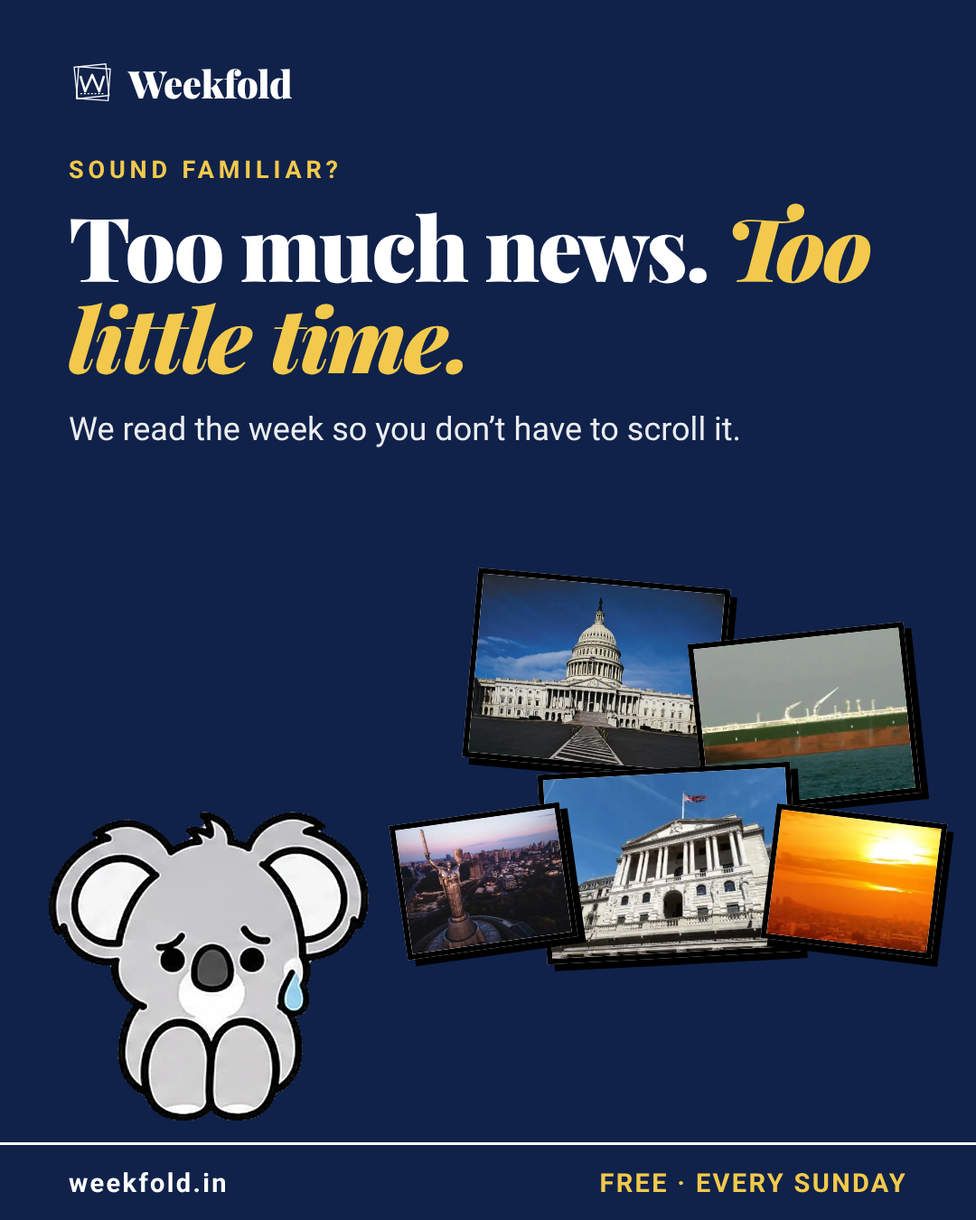
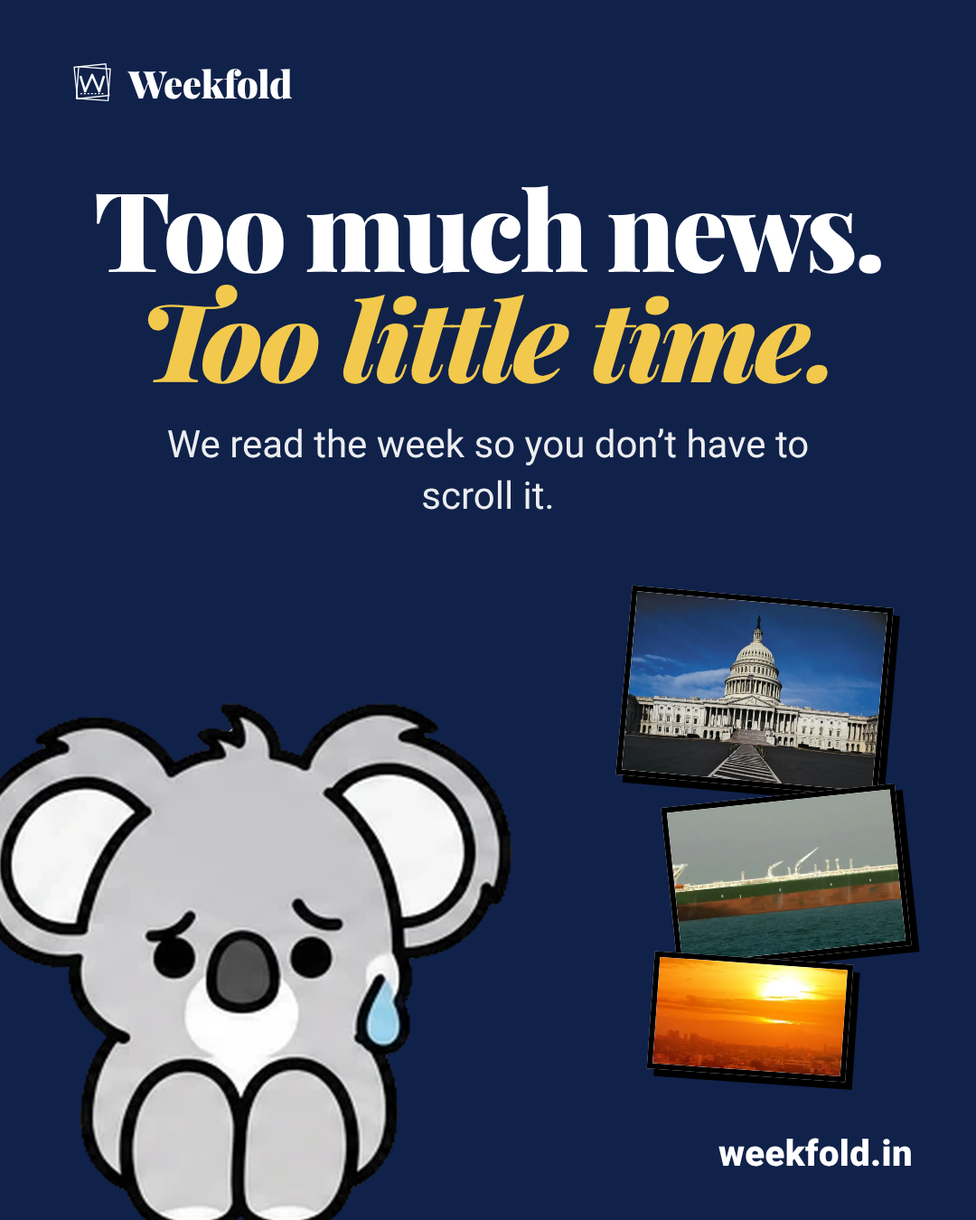
Instagram ads: big-mascot layout, halo-free hi-res koalas
Claude-Session: https://claude.ai/code/session_01ESiLAEbfA7guLETmyMs8UT

diff --git a/promo/instagram/posts.html b/promo/instagram/posts.html
@@ -1,4 +1,5 @@
-<html><head><meta charset="utf-8"><style>*{box-sizing:border-box;margin:0}body{background:#888;font-family:'Roboto',sans-serif}
+<html><head><meta charset="utf-8"><style>.big{text-align:center;margin-left:auto;margin-right:auto}h1.big{font:900 122px/1.0 'Playfair Display',serif;letter-spacing:-.03em;margin-top:70px;max-width:930px}.sub.big{font:400 42px/1.35 Roboto;margin-top:30px;max-width:800px}.url{position:absolute;z-index:6;right:70px;bottom:50px;font:900 40px Roboto;letter-spacing:.01em}.note{position:absolute;z-index:4;font:700 46px/1.05 Caveat,cursive;text-align:center}
+*{box-sizing:border-box;margin:0}body{background:#888;font-family:'Roboto',sans-serif}
 .post{width:1080px;height:1350px;position:relative;overflow:hidden;padding:64px 76px;margin-bottom:20px}
 .top{display:flex;align-items:center;gap:14px;font:900 42px 'Playfair Display',serif;letter-spacing:-.01em}.top svg{width:52px;height:52px}.top .r{margin-left:auto;font:700 24px Roboto;letter-spacing:.14em;text-transform:uppercase}
 .k{margin-top:52px;font:700 27px Roboto;letter-spacing:.18em;text-transform:uppercase}
@@ -14,26 +15,26 @@ h1{font:900 98px/1.03 'Playfair Display',serif;letter-spacing:-.025em;margin-top
 .ph1{position:absolute;left:76px;right:76px;top:300px;height:600px;border:7px solid #000;box-shadow:14px 14px 0 #000;overflow:hidden}.ph1 img{width:100%;height:100%;object-fit:cover;display:block}
 .pill{display:inline-block;font:700 26px Roboto;letter-spacing:.14em;text-transform:uppercase;padding:10px 18px;border:3px solid #000}
 .nh{position:absolute;left:76px;right:76px;top:760px}.nh h2{font:900 82px/1.04 'Playfair Display',serif;letter-spacing:-.02em;margin-top:16px}.nh p{font:400 33px/1.4 Roboto;margin-top:18px;opacity:.92}.nh small{display:block;font:500 25px Roboto;letter-spacing:.04em;margin-top:18px;opacity:.7}</style></head><body><div class="post" id="a01" style="background:#f7f2e8;color:#0a0a0a"><div class="top"><svg viewBox="0 0 80 80" fill="none" stroke="currentColor"><rect x="12" y="10" width="54" height="54" stroke-width="2" transform="rotate(-6 39 37)"/><rect x="15" y="14" width="54" height="54" stroke-width="2" transform="rotate(4 42 41)"/><path d="M20 28L28 54L40 26L52 54L60 28" stroke-width="4" stroke-linejoin="round"/><path d="M20 58h40" stroke-width="2" stroke-dasharray="3 3"/></svg><span>Weekfold</span></div>
-<div class="k" style="color:#8c1d18">Hello, world</div><h1>The world’s week, <em style="color:#8c1d18;font-style:italic">folded</em> into one free edition.</h1><div class="sub">A free news edition that lands every Sunday. One page for every day.</div><div class="ph" style="right:80px;width:400px;height:520px"><img src="file:///home/claude/weekfold/promo/instagram/shots/landing.png"></div><img class="kl" src="file:///home/claude/weekfold/promo/instagram/koala_hi/cheer.png" style="left:30px;bottom:96px;height:400px;transform:rotate(0deg)">
-<div class="foot"><span>weekfold.in</span><span style="color:#8c1d18">FREE · EVERY SUNDAY</span></div></div><div class="post" id="a02" style="background:#10224a;color:#ffffff"><div class="top"><svg viewBox="0 0 80 80" fill="none" stroke="currentColor"><rect x="12" y="10" width="54" height="54" stroke-width="2" transform="rotate(-6 39 37)"/><rect x="15" y="14" width="54" height="54" stroke-width="2" transform="rotate(4 42 41)"/><path d="M20 28L28 54L40 26L52 54L60 28" stroke-width="4" stroke-linejoin="round"/><path d="M20 58h40" stroke-width="2" stroke-dasharray="3 3"/></svg><span>Weekfold</span></div>
-<div class="k" style="color:#f2c94c">Sound familiar?</div><h1>Too much news. <em style="color:#f2c94c;font-style:italic">Too little time.</em></h1><div class="sub">We read the week so you don’t have to scroll it.</div><div class="pol" style="left:520px;top:640px;width:280px;height:210px;transform:rotate(5deg)"><img src="file:///home/claude/weekfold/docs/img/United_States_Capitol.webp"></div><div class="pol" style="left:770px;top:700px;width:240px;height:190px;transform:rotate(-6deg)"><img src="file:///home/claude/weekfold/docs/img/Oil_tanker.webp"></div><div class="pol" style="left:600px;top:850px;width:280px;height:210px;transform:rotate(-3deg)"><img src="file:///home/claude/weekfold/docs/img/Bank_of_England.webp"></div><div class="pol" style="left:850px;top:900px;width:190px;height:150px;transform:rotate(7deg)"><img src="file:///home/claude/weekfold/docs/img/Heat_wave.webp"></div><div class="pol" style="left:440px;top:900px;width:190px;height:150px;transform:rotate(-8deg)"><img src="file:///home/claude/weekfold/docs/img/Kyiv.webp"></div><img class="kl" src="file:///home/claude/weekfold/promo/instagram/koala_hi/worry.png" style="left:50px;bottom:96px;height:360px;transform:rotate(0deg)">
-<div class="foot"><span>weekfold.in</span><span style="color:#f2c94c">FREE · EVERY SUNDAY</span></div></div><div class="post" id="a03" style="background:#f7f2e8;color:#0a0a0a"><div class="top"><svg viewBox="0 0 80 80" fill="none" stroke="currentColor"><rect x="12" y="10" width="54" height="54" stroke-width="2" transform="rotate(-6 39 37)"/><rect x="15" y="14" width="54" height="54" stroke-width="2" transform="rotate(4 42 41)"/><path d="M20 28L28 54L40 26L52 54L60 28" stroke-width="4" stroke-linejoin="round"/><path d="M20 58h40" stroke-width="2" stroke-dasharray="3 3"/></svg><span>Weekfold</span></div>
-<div class="k" style="color:#8c1d18">How it works</div><h1>One page for <em style="color:#8c1d18;font-style:italic">every day</em> of the week.</h1><div class="sub">Monday to Sunday, the stories that still mattered by the end of the week.</div><div class="ph" style="right:80px;width:400px;height:520px"><img src="file:///home/claude/weekfold/promo/instagram/shots/days.png"></div><img class="kl" src="file:///home/claude/weekfold/promo/instagram/koala_hi/point.png" style="left:40px;bottom:96px;height:420px;transform:rotate(0deg)">
-<div class="foot"><span>weekfold.in</span><span style="color:#8c1d18">FREE · EVERY SUNDAY</span></div></div><div class="post" id="a04" style="background:#e9d98a;color:#0a0a0a"><div class="top"><svg viewBox="0 0 80 80" fill="none" stroke="currentColor"><rect x="12" y="10" width="54" height="54" stroke-width="2" transform="rotate(-6 39 37)"/><rect x="15" y="14" width="54" height="54" stroke-width="2" transform="rotate(4 42 41)"/><path d="M20 28L28 54L40 26L52 54L60 28" stroke-width="4" stroke-linejoin="round"/><path d="M20 58h40" stroke-width="2" stroke-dasharray="3 3"/></svg><span>Weekfold</span></div>
-<div class="k" style="color:#8c1d18">Our rule</div><h1>Every story <em style="color:#8c1d18;font-style:italic">names its sources.</em></h1><div class="sub">At least two independent outlets behind every story. Always linked.</div><div class="ph" style="right:80px;width:400px;height:520px"><img src="file:///home/claude/weekfold/promo/instagram/shots/story_src.png"></div><img class="kl" src="file:///home/claude/weekfold/promo/instagram/koala_hi/magnify.png" style="left:40px;bottom:96px;height:410px;transform:rotate(0deg)">
-<div class="foot"><span>weekfold.in</span><span style="color:#8c1d18">FREE · EVERY SUNDAY</span></div></div><div class="post" id="a05" style="background:#10224a;color:#ffffff"><div class="top"><svg viewBox="0 0 80 80" fill="none" stroke="currentColor"><rect x="12" y="10" width="54" height="54" stroke-width="2" transform="rotate(-6 39 37)"/><rect x="15" y="14" width="54" height="54" stroke-width="2" transform="rotate(4 42 41)"/><path d="M20 28L28 54L40 26L52 54L60 28" stroke-width="4" stroke-linejoin="round"/><path d="M20 58h40" stroke-width="2" stroke-dasharray="3 3"/></svg><span>Weekfold</span></div>
-<div class="k" style="color:#f2c94c">The best part</div><h1>Free. No ads. <em style="color:#f2c94c;font-style:italic">No paywall.</em></h1><div class="sub">Just the week’s news, written in plain English.</div><div class="ph" style="right:80px;width:400px;height:520px"><img src="file:///home/claude/weekfold/promo/instagram/shots/home.png"></div><img class="kl" src="file:///home/claude/weekfold/promo/instagram/koala_hi/thumb.png" style="left:40px;bottom:96px;height:420px;transform:rotate(0deg)">
-<div class="foot"><span>weekfold.in</span><span style="color:#f2c94c">FREE · EVERY SUNDAY</span></div></div><div class="post" id="a06" style="background:#f7f2e8;color:#0a0a0a"><div class="top"><svg viewBox="0 0 80 80" fill="none" stroke="currentColor"><rect x="12" y="10" width="54" height="54" stroke-width="2" transform="rotate(-6 39 37)"/><rect x="15" y="14" width="54" height="54" stroke-width="2" transform="rotate(4 42 41)"/><path d="M20 28L28 54L40 26L52 54L60 28" stroke-width="4" stroke-linejoin="round"/><path d="M20 58h40" stroke-width="2" stroke-dasharray="3 3"/></svg><span>Weekfold</span></div>
-<div class="k" style="color:#8c1d18">Mark your calendar</div><h1>A new edition <em style="color:#8c1d18;font-style:italic">every Sunday.</em></h1><div class="sub">Seven days, seven leads, one read. Straight to your inbox.</div><div class="week"><div class="wd"><b>02 Nov</b><div style="background-image:url(file:///home/claude/weekfold/docs/img/Kyiv.webp)"></div><i>Ukraine and Russia emergency alert apps hacked as local tr</i></div><div class="wd"><b>03 Nov</b><div style="background-image:url(file:///home/claude/weekfold/docs/img/United_States_Capitol.webp)"></div><i>Democrats seize House and Senate in midterm rebuke of Trum</i></div><div class="wd"><b>04 Nov</b><div style="background-image:url(file:///home/claude/weekfold/docs/img/Zaporizhzhia.webp)"></div><i>Dozens dead as Russian bombs hit Zaporizhzhia aid point</i></div><div class="wd"><b>05 Nov</b><div style="background-image:url(file:///home/claude/weekfold/docs/img/Oil_tanker.webp)"></div><i>Tankers burn in Hormuz as Iran presses on after US midterm</i></div><div class="wd"><b>06 Nov</b><div style="background-image:url(file:///home/claude/weekfold/docs/img/Pedro_Alliana.webp)"></div><i>Paraguay&#x27;s Senate removes president over bank collapse; Al</i></div><div class="wd"><b>07 Nov</b><div style="background-image:url(file:///home/claude/weekfold/docs/img/Main_Square_Krakow.webp)"></div><i>Gunman kills six in Kraków&#x27;s Main Square; Poland calls it </i></div><div class="wd"><b>08 Nov</b><div style="background-image:url(file:///home/claude/weekfold/docs/img/United_States_Central_Command.webp)"></div><i>US opens land and Caspian front against Iran with Task For</i></div></div><img class="kl" src="file:///home/claude/weekfold/promo/instagram/koala_hi/sun.png" style="right:60px;bottom:420px;height:360px;transform:rotate(0deg)">
-<div class="foot"><span>weekfold.in</span><span style="color:#8c1d18">FREE · EVERY SUNDAY</span></div></div><div class="post" id="a07" style="background:#e9d98a;color:#0a0a0a"><div class="top"><svg viewBox="0 0 80 80" fill="none" stroke="currentColor"><rect x="12" y="10" width="54" height="54" stroke-width="2" transform="rotate(-6 39 37)"/><rect x="15" y="14" width="54" height="54" stroke-width="2" transform="rotate(4 42 41)"/><path d="M20 28L28 54L40 26L52 54L60 28" stroke-width="4" stroke-linejoin="round"/><path d="M20 58h40" stroke-width="2" stroke-dasharray="3 3"/></svg><span>Weekfold</span></div>
-<div class="k" style="color:#8c1d18">Games</div><h1>Two games. <em style="color:#8c1d18;font-style:italic">Every day.</em></h1><div class="sub">A fresh mini crossword and Weekfold Word, right inside the site.</div><div class="ph" style="right:50px;width:340px;height:480px"><img src="file:///home/claude/weekfold/promo/instagram/shots/crossword.png"></div><div class="ph" style="right:420px;width:340px;height:480px"><img src="file:///home/claude/weekfold/promo/instagram/shots/word.png"></div><img class="kl" src="file:///home/claude/weekfold/promo/instagram/koala_hi/mug.png" style="left:30px;bottom:96px;height:300px;transform:rotate(0deg)">
-<div class="foot"><span>weekfold.in</span><span style="color:#8c1d18">FREE · EVERY SUNDAY</span></div></div><div class="post" id="a08" style="background:#10224a;color:#ffffff"><div class="top"><svg viewBox="0 0 80 80" fill="none" stroke="currentColor"><rect x="12" y="10" width="54" height="54" stroke-width="2" transform="rotate(-6 39 37)"/><rect x="15" y="14" width="54" height="54" stroke-width="2" transform="rotate(4 42 41)"/><path d="M20 28L28 54L40 26L52 54L60 28" stroke-width="4" stroke-linejoin="round"/><path d="M20 58h40" stroke-width="2" stroke-dasharray="3 3"/></svg><span>Weekfold</span></div>
-<div class="k" style="color:#f2c94c">World news</div><h1>Five minutes to <em style="color:#f2c94c;font-style:italic">catch up</em> on the planet.</h1><div class="sub">Politics, science, climate, sport, culture and more, all in one place.</div><div class="pol" style="left:430px;top:700px;width:280px;height:210px;transform:rotate(-5deg)"><img src="file:///home/claude/weekfold/docs/img/Greenland_ice_sheet.webp"></div><div class="pol" style="left:700px;top:730px;width:300px;height:220px;transform:rotate(5deg)"><img src="file:///home/claude/weekfold/docs/img/Pedro_Alliana.webp"></div><div class="pol" style="left:560px;top:890px;width:270px;height:200px;transform:rotate(-3deg)"><img src="file:///home/claude/weekfold/docs/img/Beauden_Barrett.webp"></div><div class="pol" style="left:840px;top:930px;width:190px;height:160px;transform:rotate(8deg)"><img src="file:///home/claude/weekfold/docs/img/Joshua_Kutryk.webp"></div><img class="kl" src="file:///home/claude/weekfold/promo/instagram/koala_hi/globe.png" style="left:40px;bottom:96px;height:420px;transform:rotate(0deg)">
-<div class="foot"><span>weekfold.in</span><span style="color:#f2c94c">FREE · EVERY SUNDAY</span></div></div><div class="post" id="a09" style="background:#f7f2e8;color:#0a0a0a"><div class="top"><svg viewBox="0 0 80 80" fill="none" stroke="currentColor"><rect x="12" y="10" width="54" height="54" stroke-width="2" transform="rotate(-6 39 37)"/><rect x="15" y="14" width="54" height="54" stroke-width="2" transform="rotate(4 42 41)"/><path d="M20 28L28 54L40 26L52 54L60 28" stroke-width="4" stroke-linejoin="round"/><path d="M20 58h40" stroke-width="2" stroke-dasharray="3 3"/></svg><span>Weekfold</span></div>
-<div class="k" style="color:#8c1d18">Our promise</div><h1>No spin. <em style="color:#8c1d18;font-style:italic">Just the facts.</em></h1><div class="sub">Plain-English summaries of what actually happened, with the sources one tap away.</div><div class="ph" style="right:80px;width:400px;height:520px"><img src="file:///home/claude/weekfold/promo/instagram/shots/story.png"></div><img class="kl" src="file:///home/claude/weekfold/promo/instagram/koala_hi/shock.png" style="left:50px;bottom:96px;height:400px;transform:rotate(0deg)">
-<div class="foot"><span>weekfold.in</span><span style="color:#8c1d18">FREE · EVERY SUNDAY</span></div></div><div class="post" id="a10" style="background:#10224a;color:#ffffff"><div class="top"><svg viewBox="0 0 80 80" fill="none" stroke="currentColor"><rect x="12" y="10" width="54" height="54" stroke-width="2" transform="rotate(-6 39 37)"/><rect x="15" y="14" width="54" height="54" stroke-width="2" transform="rotate(4 42 41)"/><path d="M20 28L28 54L40 26L52 54L60 28" stroke-width="4" stroke-linejoin="round"/><path d="M20 58h40" stroke-width="2" stroke-dasharray="3 3"/></svg><span>Weekfold</span></div>
-<div class="k" style="color:#f2c94c">Ready?</div><h1>Get Weekfold <em style="color:#f2c94c;font-style:italic">every Sunday.</em></h1><div class="sub">Free forever. Join at weekfold.in (link in bio).</div><div class="ph" style="right:80px;width:400px;height:520px"><img src="file:///home/claude/weekfold/promo/instagram/shots/landing.png"></div><img class="kl" src="file:///home/claude/weekfold/promo/instagram/koala_hi/mega.png" style="left:40px;bottom:96px;height:420px;transform:rotate(0deg)">
-<div class="foot"><span>weekfold.in</span><span style="color:#f2c94c">FREE · EVERY SUNDAY</span></div></div><div class="post" id="n01" style="background:#f7f2e8;color:#0a0a0a"><div class="top"><svg viewBox="0 0 80 80" fill="none" stroke="currentColor"><rect x="12" y="10" width="54" height="54" stroke-width="2" transform="rotate(-6 39 37)"/><rect x="15" y="14" width="54" height="54" stroke-width="2" transform="rotate(4 42 41)"/><path d="M20 28L28 54L40 26L52 54L60 28" stroke-width="4" stroke-linejoin="round"/><path d="M20 58h40" stroke-width="2" stroke-dasharray="3 3"/></svg><span>Weekfold</span><span class="r" style="color:#8c1d18">The week · 1/5</span></div>
+<h1 class="big">The world’s week, <em style="color:#8c1d18;font-style:italic">folded</em>.</h1><div class="sub big">One free news edition, every Sunday.</div><div class="ph" style="right:70px;width:300px;height:420px;bottom:170px"><img src="file:///home/claude/weekfold/promo/instagram/shots/landing.png"></div><div class="note" style="right:70px;bottom:620px;width:300px">your Sunday read</div><img class="kl" src="file:///home/claude/weekfold/promo/instagram/koala_hi/cheer.png" style="left:-60px;bottom:-40px;height:620px;transform:rotate(0deg)">
+<div class="url" style="color:#0a0a0a">weekfold.in</div></div><div class="post" id="a02" style="background:#10224a;color:#ffffff"><div class="top"><svg viewBox="0 0 80 80" fill="none" stroke="currentColor"><rect x="12" y="10" width="54" height="54" stroke-width="2" transform="rotate(-6 39 37)"/><rect x="15" y="14" width="54" height="54" stroke-width="2" transform="rotate(4 42 41)"/><path d="M20 28L28 54L40 26L52 54L60 28" stroke-width="4" stroke-linejoin="round"/><path d="M20 58h40" stroke-width="2" stroke-dasharray="3 3"/></svg><span>Weekfold</span></div>
+<h1 class="big">Too much news. <em style="color:#f2c94c;font-style:italic">Too little time.</em></h1><div class="sub big">We read the week so you don’t have to scroll it.</div><div class="pol" style="left:690px;top:660px;width:290px;height:210px;transform:rotate(5deg)"><img src="file:///home/claude/weekfold/docs/img/United_States_Capitol.webp"></div><div class="pol" style="left:740px;top:880px;width:260px;height:180px;transform:rotate(-6deg)"><img src="file:///home/claude/weekfold/docs/img/Oil_tanker.webp"></div><div class="pol" style="left:720px;top:1060px;width:220px;height:130px;transform:rotate(4deg)"><img src="file:///home/claude/weekfold/docs/img/Heat_wave.webp"></div><img class="kl" src="file:///home/claude/weekfold/promo/instagram/koala_hi/worry.png" style="left:-50px;bottom:-40px;height:620px;transform:rotate(0deg)">
+<div class="url" style="color:#ffffff">weekfold.in</div></div><div class="post" id="a03" style="background:#f7f2e8;color:#0a0a0a"><div class="top"><svg viewBox="0 0 80 80" fill="none" stroke="currentColor"><rect x="12" y="10" width="54" height="54" stroke-width="2" transform="rotate(-6 39 37)"/><rect x="15" y="14" width="54" height="54" stroke-width="2" transform="rotate(4 42 41)"/><path d="M20 28L28 54L40 26L52 54L60 28" stroke-width="4" stroke-linejoin="round"/><path d="M20 58h40" stroke-width="2" stroke-dasharray="3 3"/></svg><span>Weekfold</span></div>
+<h1 class="big">One page for <em style="color:#8c1d18;font-style:italic">every day.</em></h1><div class="sub big">Monday to Sunday, the stories that still mattered.</div><div class="ph" style="right:70px;width:300px;height:420px;bottom:170px"><img src="file:///home/claude/weekfold/promo/instagram/shots/days.png"></div><div class="note" style="right:110px;bottom:600px;width:300px">tap a day</div><img class="kl" src="file:///home/claude/weekfold/promo/instagram/koala_hi/point.png" style="left:-40px;bottom:-40px;height:700px;transform:rotate(0deg)">
+<div class="url" style="color:#0a0a0a">weekfold.in</div></div><div class="post" id="a04" style="background:#e9d98a;color:#0a0a0a"><div class="top"><svg viewBox="0 0 80 80" fill="none" stroke="currentColor"><rect x="12" y="10" width="54" height="54" stroke-width="2" transform="rotate(-6 39 37)"/><rect x="15" y="14" width="54" height="54" stroke-width="2" transform="rotate(4 42 41)"/><path d="M20 28L28 54L40 26L52 54L60 28" stroke-width="4" stroke-linejoin="round"/><path d="M20 58h40" stroke-width="2" stroke-dasharray="3 3"/></svg><span>Weekfold</span></div>
+<h1 class="big">Sources on <em style="color:#8c1d18;font-style:italic">every story.</em></h1><div class="sub big">Two outlets minimum. Always linked.</div><div class="ph" style="right:70px;width:300px;height:420px;bottom:170px"><img src="file:///home/claude/weekfold/promo/instagram/shots/story_src.png"></div><div class="note" style="right:70px;bottom:600px;width:300px">check it yourself</div><img class="kl" src="file:///home/claude/weekfold/promo/instagram/koala_hi/magnify.png" style="left:-40px;bottom:-40px;height:680px;transform:rotate(0deg)">
+<div class="url" style="color:#0a0a0a">weekfold.in</div></div><div class="post" id="a05" style="background:#10224a;color:#ffffff"><div class="top"><svg viewBox="0 0 80 80" fill="none" stroke="currentColor"><rect x="12" y="10" width="54" height="54" stroke-width="2" transform="rotate(-6 39 37)"/><rect x="15" y="14" width="54" height="54" stroke-width="2" transform="rotate(4 42 41)"/><path d="M20 28L28 54L40 26L52 54L60 28" stroke-width="4" stroke-linejoin="round"/><path d="M20 58h40" stroke-width="2" stroke-dasharray="3 3"/></svg><span>Weekfold</span></div>
+<h1 class="big">Free. No ads. <em style="color:#f2c94c;font-style:italic">No paywall.</em></h1><div class="sub big">Just the week’s news, in plain English.</div><div class="ph" style="right:70px;width:300px;height:420px;bottom:170px"><img src="file:///home/claude/weekfold/promo/instagram/shots/home.png"></div><div class="note" style="right:70px;bottom:600px;width:300px">no catch, really</div><img class="kl" src="file:///home/claude/weekfold/promo/instagram/koala_hi/thumb.png" style="left:-40px;bottom:-40px;height:700px;transform:rotate(0deg)">
+<div class="url" style="color:#ffffff">weekfold.in</div></div><div class="post" id="a06" style="background:#f7f2e8;color:#0a0a0a"><div class="top"><svg viewBox="0 0 80 80" fill="none" stroke="currentColor"><rect x="12" y="10" width="54" height="54" stroke-width="2" transform="rotate(-6 39 37)"/><rect x="15" y="14" width="54" height="54" stroke-width="2" transform="rotate(4 42 41)"/><path d="M20 28L28 54L40 26L52 54L60 28" stroke-width="4" stroke-linejoin="round"/><path d="M20 58h40" stroke-width="2" stroke-dasharray="3 3"/></svg><span>Weekfold</span></div>
+<h1 class="big">A new edition <em style="color:#8c1d18;font-style:italic">every Sunday.</em></h1><div class="sub big">Seven days. One read.</div><div class="week" style="bottom:170px"><div class="wd"><b>02 Nov</b><div style="background-image:url(file:///home/claude/weekfold/docs/img/Kyiv.webp)"></div></div><div class="wd"><b>03 Nov</b><div style="background-image:url(file:///home/claude/weekfold/docs/img/United_States_Capitol.webp)"></div></div><div class="wd"><b>04 Nov</b><div style="background-image:url(file:///home/claude/weekfold/docs/img/Zaporizhzhia.webp)"></div></div><div class="wd"><b>05 Nov</b><div style="background-image:url(file:///home/claude/weekfold/docs/img/Oil_tanker.webp)"></div></div><div class="wd"><b>06 Nov</b><div style="background-image:url(file:///home/claude/weekfold/docs/img/Pedro_Alliana.webp)"></div></div><div class="wd"><b>07 Nov</b><div style="background-image:url(file:///home/claude/weekfold/docs/img/Main_Square_Krakow.webp)"></div></div><div class="wd"><b>08 Nov</b><div style="background-image:url(file:///home/claude/weekfold/docs/img/United_States_Central_Command.webp)"></div></div></div><img class="kl" src="file:///home/claude/weekfold/promo/instagram/koala_hi/sun.png" style="right:50px;bottom:420px;height:260px;transform:rotate(0deg)"><div class="note" style="right:330px;bottom:470px;width:320px">see you Sunday!</div>
+<div class="url" style="color:#0a0a0a">weekfold.in</div></div><div class="post" id="a07" style="background:#e9d98a;color:#0a0a0a"><div class="top"><svg viewBox="0 0 80 80" fill="none" stroke="currentColor"><rect x="12" y="10" width="54" height="54" stroke-width="2" transform="rotate(-6 39 37)"/><rect x="15" y="14" width="54" height="54" stroke-width="2" transform="rotate(4 42 41)"/><path d="M20 28L28 54L40 26L52 54L60 28" stroke-width="4" stroke-linejoin="round"/><path d="M20 58h40" stroke-width="2" stroke-dasharray="3 3"/></svg><span>Weekfold</span></div>
+<h1 class="big">Two games. <em style="color:#8c1d18;font-style:italic">Every day.</em></h1><div class="sub big">A mini crossword and Weekfold Word.</div><div class="ph" style="right:60px;width:270px;height:420px;bottom:170px"><img src="file:///home/claude/weekfold/promo/instagram/shots/word.png"></div><div class="ph" style="right:370px;width:270px;height:420px;bottom:170px"><img src="file:///home/claude/weekfold/promo/instagram/shots/crossword.png"></div><div class="note" style="right:300px;bottom:600px;width:360px">play both, free</div><img class="kl" src="file:///home/claude/weekfold/promo/instagram/koala_hi/mug.png" style="left:-50px;bottom:-40px;height:480px;transform:rotate(0deg)">
+<div class="url" style="color:#0a0a0a">weekfold.in</div></div><div class="post" id="a08" style="background:#10224a;color:#ffffff"><div class="top"><svg viewBox="0 0 80 80" fill="none" stroke="currentColor"><rect x="12" y="10" width="54" height="54" stroke-width="2" transform="rotate(-6 39 37)"/><rect x="15" y="14" width="54" height="54" stroke-width="2" transform="rotate(4 42 41)"/><path d="M20 28L28 54L40 26L52 54L60 28" stroke-width="4" stroke-linejoin="round"/><path d="M20 58h40" stroke-width="2" stroke-dasharray="3 3"/></svg><span>Weekfold</span></div>
+<h1 class="big">Five minutes on <em style="color:#f2c94c;font-style:italic">the planet.</em></h1><div class="sub big">Politics, science, climate, sport and culture.</div><div class="pol" style="left:700px;top:660px;width:290px;height:210px;transform:rotate(-5deg)"><img src="file:///home/claude/weekfold/docs/img/Greenland_ice_sheet.webp"></div><div class="pol" style="left:750px;top:880px;width:250px;height:190px;transform:rotate(5deg)"><img src="file:///home/claude/weekfold/docs/img/Pedro_Alliana.webp"></div><div class="pol" style="left:760px;top:1080px;width:170px;height:120px;transform:rotate(-4deg)"><img src="file:///home/claude/weekfold/docs/img/Joshua_Kutryk.webp"></div><img class="kl" src="file:///home/claude/weekfold/promo/instagram/koala_hi/globe.png" style="left:-50px;bottom:-40px;height:620px;transform:rotate(0deg)">
+<div class="url" style="color:#ffffff">weekfold.in</div></div><div class="post" id="a09" style="background:#f7f2e8;color:#0a0a0a"><div class="top"><svg viewBox="0 0 80 80" fill="none" stroke="currentColor"><rect x="12" y="10" width="54" height="54" stroke-width="2" transform="rotate(-6 39 37)"/><rect x="15" y="14" width="54" height="54" stroke-width="2" transform="rotate(4 42 41)"/><path d="M20 28L28 54L40 26L52 54L60 28" stroke-width="4" stroke-linejoin="round"/><path d="M20 58h40" stroke-width="2" stroke-dasharray="3 3"/></svg><span>Weekfold</span></div>
+<h1 class="big">No spin. <em style="color:#8c1d18;font-style:italic">Just the facts.</em></h1><div class="sub big">Plain-English summaries, sources one tap away.</div><div class="ph" style="right:70px;width:300px;height:420px;bottom:170px"><img src="file:///home/claude/weekfold/promo/instagram/shots/story.png"></div><div class="note" style="right:70px;bottom:600px;width:300px">tap for sources</div><img class="kl" src="file:///home/claude/weekfold/promo/instagram/koala_hi/shock.png" style="left:-40px;bottom:-40px;height:700px;transform:rotate(0deg)">
+<div class="url" style="color:#0a0a0a">weekfold.in</div></div><div class="post" id="a10" style="background:#10224a;color:#ffffff"><div class="top"><svg viewBox="0 0 80 80" fill="none" stroke="currentColor"><rect x="12" y="10" width="54" height="54" stroke-width="2" transform="rotate(-6 39 37)"/><rect x="15" y="14" width="54" height="54" stroke-width="2" transform="rotate(4 42 41)"/><path d="M20 28L28 54L40 26L52 54L60 28" stroke-width="4" stroke-linejoin="round"/><path d="M20 58h40" stroke-width="2" stroke-dasharray="3 3"/></svg><span>Weekfold</span></div>
+<h1 class="big">Get Weekfold <em style="color:#f2c94c;font-style:italic">every Sunday.</em></h1><div class="sub big">Free forever. Link in bio.</div><div class="ph" style="right:70px;width:300px;height:420px;bottom:170px"><img src="file:///home/claude/weekfold/promo/instagram/shots/landing.png"></div><div class="note" style="right:130px;bottom:600px;width:300px">join free</div><img class="kl" src="file:///home/claude/weekfold/promo/instagram/koala_hi/mega.png" style="left:-40px;bottom:-40px;height:700px;transform:rotate(0deg)">
+<div class="url" style="color:#ffffff">weekfold.in</div></div><div class="post" id="n01" style="background:#f7f2e8;color:#0a0a0a"><div class="top"><svg viewBox="0 0 80 80" fill="none" stroke="currentColor"><rect x="12" y="10" width="54" height="54" stroke-width="2" transform="rotate(-6 39 37)"/><rect x="15" y="14" width="54" height="54" stroke-width="2" transform="rotate(4 42 41)"/><path d="M20 28L28 54L40 26L52 54L60 28" stroke-width="4" stroke-linejoin="round"/><path d="M20 58h40" stroke-width="2" stroke-dasharray="3 3"/></svg><span>Weekfold</span><span class="r" style="color:#8c1d18">The week · 1/5</span></div>
 <div class="ph1" style="top:160px;height:500px"><img src="file:///home/claude/weekfold/docs/img/United_States_Capitol.webp"></div>
 <div class="nh" style="top:700px"><span class="pill" style="background:#8c1d18;color:#fff;border-color:#000">Politics</span><span style="font:500 25px Roboto;margin-left:16px;opacity:.75">Tuesday 3 November</span>
 <h2 style="font-size:80px">Democrats seize House and Senate in midterm rebuke of Trump</h2>

diff --git a/promo/instagram/gen.py b/promo/instagram/gen.py
@@ -5,8 +5,26 @@ from playwright.sync_api import sync_playwright
 HERE = pathlib.Path(__file__).resolve().parent; ROOT = HERE.parent.parent
 from PIL import Image, ImageFilter
 _hi = HERE / 'koala_hi'; _hi.mkdir(exist_ok=True)
-for _p in (ROOT / 'src' / 'koala').glob('*.webp'):   # 2x Lanczos + light sharpen so posts look crisp
-    _im = Image.open(_p).convert('RGBA'); _im = _im.resize((_im.width * 2, _im.height * 2), Image.LANCZOS).filter(ImageFilter.UnsharpMask(2, 90, 2)); _im.save(_hi / (_p.stem + '.png'))
+import numpy as np
+from scipy import ndimage as ndi
+def _hires(p):
+    im = Image.open(p).convert('RGBA'); a = np.array(im).astype(float)
+    a[..., :3] *= a[..., 3:4] / 255                          # premultiply so transparent white doesn't bleed
+    im = Image.fromarray(a.astype('uint8'), 'RGBA').resize((im.width * 3, im.height * 3), Image.LANCZOS)
+    a = np.array(im).astype(float); al = a[..., 3:4].clip(1, 255); a[..., :3] = (a[..., :3] * 255 / al).clip(0, 255)
+    a = a.astype('uint8'); lum = a[..., :3].mean(2); opaque = a[..., 3] > 30
+    dark = opaque & (lum < 80)
+    # peel any light pixels outside the black outline (flood in from transparency through non-dark pixels, up to 10px)
+    reach = ~opaque
+    for _ in range(10): reach = ndi.binary_dilation(reach) & ~dark | reach
+    a[reach & ~dark, 3] = 0
+    for _ in range(2):                                         # remove remaining light edge pixels
+        t = a[..., 3] < 30; e = ndi.binary_dilation(t) & ~t & (a[..., :3].mean(2) > 60); a[e, 3] = 0
+    edge = (a[..., 3] > 0) & (a[..., 3] < 255); a[edge, :3] = np.minimum(a[edge, :3], 40)   # dark fringe, never white
+    a[..., 3] = np.where(a[..., 3] < 30, 0, a[..., 3])
+    return Image.fromarray(a, 'RGBA')
+for _p in (ROOT / 'src' / 'koala').glob('*.webp'):
+    _hires(_p).save(_hi / (_p.stem + '.png'))
 K = _hi.as_uri(); SH = (HERE / 'shots').as_uri()
 IMG = (ROOT / 'docs' / 'img').as_uri()
 man = json.loads((ROOT / 'data' / 'photos' / 'manifest.json').read_text())
@@ -17,7 +35,8 @@ def photo(t):
 def story(di, k): d = ed['days'][di]; return ([d['lead']] + d['more'])[k]
 LOGO = '<svg viewBox="0 0 80 80" fill="none" stroke="currentColor"><rect x="12" y="10" width="54" height="54" stroke-width="2" transform="rotate(-6 39 37)"/><rect x="15" y="14" width="54" height="54" stroke-width="2" transform="rotate(4 42 41)"/><path d="M20 28L28 54L40 26L52 54L60 28" stroke-width="4" stroke-linejoin="round"/><path d="M20 58h40" stroke-width="2" stroke-dasharray="3 3"/></svg>'
 TH = {'cream': ('#f7f2e8', '#0a0a0a', '#8c1d18'), 'navy': ('#10224a', '#ffffff', '#f2c94c'), 'gold': ('#e9d98a', '#0a0a0a', '#8c1d18')}
-CSS = '''*{box-sizing:border-box;margin:0}body{background:#888;font-family:'Roboto',sans-serif}
+CSS = '''.big{text-align:center;margin-left:auto;margin-right:auto}h1.big{font:900 122px/1.0 'Playfair Display',serif;letter-spacing:-.03em;margin-top:70px;max-width:930px}.sub.big{font:400 42px/1.35 Roboto;margin-top:30px;max-width:800px}.url{position:absolute;z-index:6;right:70px;bottom:50px;font:900 40px Roboto;letter-spacing:.01em}.note{position:absolute;z-index:4;font:700 46px/1.05 Caveat,cursive;text-align:center}
+*{box-sizing:border-box;margin:0}body{background:#888;font-family:'Roboto',sans-serif}
 .post{width:1080px;height:1350px;position:relative;overflow:hidden;padding:64px 76px;margin-bottom:20px}
 .top{display:flex;align-items:center;gap:14px;font:900 42px 'Playfair Display',serif;letter-spacing:-.01em}.top svg{width:52px;height:52px}.top .r{margin-left:auto;font:700 24px Roboto;letter-spacing:.14em;text-transform:uppercase}
 .k{margin-top:52px;font:700 27px Roboto;letter-spacing:.18em;text-transform:uppercase}
@@ -35,11 +54,14 @@ h1{font:900 98px/1.03 'Playfair Display',serif;letter-spacing:-.025em;margin-top
 .nh{position:absolute;left:76px;right:76px;top:760px}.nh h2{font:900 82px/1.04 'Playfair Display',serif;letter-spacing:-.02em;margin-top:16px}.nh p{font:400 33px/1.4 Roboto;margin-top:18px;opacity:.92}.nh small{display:block;font:500 25px Roboto;letter-spacing:.04em;margin-top:18px;opacity:.7}'''
 
 def ad(i, th, kick, h, sub, body):
+    """Big-mascot layout: brand top-left, huge centred headline, small sub, big koala bottom-left, url bottom-right."""
     bg, fg, acc = TH[th]; h = h.replace('<em>', f'<em style="color:{acc};font-style:italic">')
     return f'''<div class="post" id="a{i:02d}" style="background:{bg};color:{fg}"><div class="top">{LOGO}<span>Weekfold</span></div>
-<div class="k" style="color:{acc}">{kick}</div><h1>{h}</h1><div class="sub">{sub}</div>{body}
-<div class="foot"><span>weekfold.in</span><span style="color:{acc}">FREE · EVERY SUNDAY</span></div></div>'''
-def phone(f, right=70, w=400, h=520): return f'<div class="ph" style="right:{right}px;width:{w}px;height:{h}px"><img src="{SH}/{f}.png"></div>'
+<h1 class="big">{h}</h1><div class="sub big">{sub}</div>{body}
+<div class="url" style="color:{fg}">weekfold.in</div></div>'''
+def note(txt, right=70, bottom=640, w=300, arrow='up'):
+    return f'<div class="note" style="right:{right}px;bottom:{bottom}px;width:{w}px">{txt}</div>'
+def phone(f, right=70, w=400, h=520): return f'<div class="ph" style="right:{right}px;width:{w}px;height:{h}px;bottom:170px"><img src="{SH}/{f}.png"></div>'
 def koala(n, h, left=None, right=None, bottom=96, rot=0):
     pos = f'left:{left}px;' if left is not None else f'right:{right}px;'
     return f'<img class="kl" src="{K}/{n}.png" style="{pos}bottom:{bottom}px;height:{h}px;transform:rotate({rot}deg)">'
@@ -47,19 +69,21 @@ def collage(items):
     return ''.join(f'<div class="pol" style="left:{x}px;top:{y}px;width:{w}px;height:{h}px;transform:rotate({r}deg)"><img src="{photo(t)}"></div>' for t, x, y, w, h, r in items)
 
 A = []
-A.append(ad(1, 'cream', 'Hello, world', 'The world’s week, <em>folded</em> into one free edition.', 'A free news edition that lands every Sunday. One page for every day.', phone('landing', right=80) + koala('cheer', 400, left=30)))
-A.append(ad(2, 'navy', 'Sound familiar?', 'Too much news. <em>Too little time.</em>', 'We read the week so you don’t have to scroll it.',
-    collage([('United_States_Capitol', 520, 640, 280, 210, 5), ('Oil_tanker', 770, 700, 240, 190, -6), ('Bank_of_England', 600, 850, 280, 210, -3), ('Heat_wave', 850, 900, 190, 150, 7), ('Kyiv', 440, 900, 190, 150, -8)]) + koala('worry', 360, left=50)))
-A.append(ad(3, 'cream', 'How it works', 'One page for <em>every day</em> of the week.', 'Monday to Sunday, the stories that still mattered by the end of the week.', phone('days', right=80) + koala('point', 420, left=40)))
-A.append(ad(4, 'gold', 'Our rule', 'Every story <em>names its sources.</em>', 'At least two independent outlets behind every story. Always linked.', phone('story_src', right=80) + koala('magnify', 410, left=40)))
-A.append(ad(5, 'navy', 'The best part', 'Free. No ads. <em>No paywall.</em>', 'Just the week’s news, written in plain English.', phone('home', right=80) + koala('thumb', 420, left=40)))
-wk = ''.join(f'<div class="wd"><b>{d["date"][8:]} Nov</b><div style="background-image:url({photo(d["lead"]["image"]["wiki"])})"></div><i>{html.escape(d["lead"]["headline"][:58])}</i></div>' for d in ed['days'])
-A.append(ad(6, 'cream', 'Mark your calendar', 'A new edition <em>every Sunday.</em>', 'Seven days, seven leads, one read. Straight to your inbox.', f'<div class="week">{wk}</div>' + koala('sun', 360, right=60, bottom=420, rot=0)))
-A.append(ad(7, 'gold', 'Games', 'Two games. <em>Every day.</em>', 'A fresh mini crossword and Weekfold Word, right inside the site.', phone('crossword', right=50, w=340, h=480) + phone('word', right=420, w=340, h=480) + koala('mug', 300, left=30, bottom=96)))
-A.append(ad(8, 'navy', 'World news', 'Five minutes to <em>catch up</em> on the planet.', 'Politics, science, climate, sport, culture and more, all in one place.',
-    collage([('Greenland_ice_sheet', 430, 700, 280, 210, -5), ('Pedro_Alliana', 700, 730, 300, 220, 5), ('Beauden_Barrett', 560, 890, 270, 200, -3), ('Joshua_Kutryk', 840, 930, 190, 160, 8)]) + koala('globe', 420, left=40)))
-A.append(ad(9, 'cream', 'Our promise', 'No spin. <em>Just the facts.</em>', 'Plain-English summaries of what actually happened, with the sources one tap away.', phone('story', right=80) + koala('shock', 400, left=50)))
-A.append(ad(10, 'navy', 'Ready?', 'Get Weekfold <em>every Sunday.</em>', 'Free forever. Join at weekfold.in (link in bio).', phone('landing', right=80) + koala('mega', 420, left=40)))
+KB = dict(left=-40, bottom=-40)   # big mascot bleeding off the bottom-left like the reference
+def big(n, h=700, **kw): return koala(n, h, **{**KB, **kw})
+A.append(ad(1, 'cream', '', 'The world’s week, <em>folded</em>.', 'One free news edition, every Sunday.', phone('landing', right=70, w=300, h=420, ) .replace('bottom:86px','bottom:170px') + note('your Sunday read', right=70, bottom=620) + big('cheer', 620, left=-60)))
+A.append(ad(2, 'navy', '', 'Too much news. <em>Too little time.</em>', 'We read the week so you don’t have to scroll it.',
+    collage([('United_States_Capitol', 690, 660, 290, 210, 5), ('Oil_tanker', 740, 880, 260, 180, -6), ('Heat_wave', 720, 1060, 220, 130, 4)]) + big('worry', 620, left=-50)))
+A.append(ad(3, 'cream', '', 'One page for <em>every day.</em>', 'Monday to Sunday, the stories that still mattered.', phone('days', right=70, w=300, h=420).replace('bottom:86px','bottom:170px') + note('tap a day', right=110, bottom=600) + big('point')))
+A.append(ad(4, 'gold', '', 'Sources on <em>every story.</em>', 'Two outlets minimum. Always linked.', phone('story_src', right=70, w=300, h=420).replace('bottom:86px','bottom:170px') + note('check it yourself', right=70, bottom=600) + big('magnify', 680)))
+A.append(ad(5, 'navy', '', 'Free. No ads. <em>No paywall.</em>', 'Just the week’s news, in plain English.', phone('home', right=70, w=300, h=420).replace('bottom:86px','bottom:170px') + note('no catch, really', right=70, bottom=600) + big('thumb')))
+wk = ''.join(f'<div class="wd"><b>{d["date"][8:]} Nov</b><div style="background-image:url({photo(d["lead"]["image"]["wiki"])})"></div></div>' for d in ed['days'])
+A.append(ad(6, 'cream', '', 'A new edition <em>every Sunday.</em>', 'Seven days. One read.', f'<div class="week" style="bottom:170px">{wk}</div>' + koala('sun', 260, right=50, bottom=420) + note('see you Sunday!', right=330, bottom=470, w=320)))
+A.append(ad(7, 'gold', '', 'Two games. <em>Every day.</em>', 'A mini crossword and Weekfold Word.', phone('word', right=60, w=270, h=420).replace('bottom:86px','bottom:170px') + phone('crossword', right=370, w=270, h=420).replace('bottom:86px','bottom:170px') + note('play both, free', right=300, bottom=600, w=360) + big('mug', 480, left=-50)))
+A.append(ad(8, 'navy', '', 'Five minutes on <em>the planet.</em>', 'Politics, science, climate, sport and culture.',
+    collage([('Greenland_ice_sheet', 700, 660, 290, 210, -5), ('Pedro_Alliana', 750, 880, 250, 190, 5), ('Joshua_Kutryk', 760, 1080, 170, 120, -4)]) + big('globe', 620, left=-50)))
+A.append(ad(9, 'cream', '', 'No spin. <em>Just the facts.</em>', 'Plain-English summaries, sources one tap away.', phone('story', right=70, w=300, h=420).replace('bottom:86px','bottom:170px') + note('tap for sources', right=70, bottom=600) + big('shock', 700)))
+A.append(ad(10, 'navy', '', 'Get Weekfold <em>every Sunday.</em>', 'Free forever. Link in bio.', phone('landing', right=70, w=300, h=420).replace('bottom:86px','bottom:170px') + note('join free', right=130, bottom=600) + big('mega')))
 
 N = [  # THE WEEKLY TASK EDITS THIS LIST: (day index 0-6, story index within day, theme cream/navy/gold, koala pose or None). Pick the 5 biggest stories; no koala on deaths/violence.
  (1, 0, 'cream', None), (3, 0, 'navy', None), (3, 1, 'gold', None), (5, 0, 'navy', None), (4, 1, 'cream', None)]
